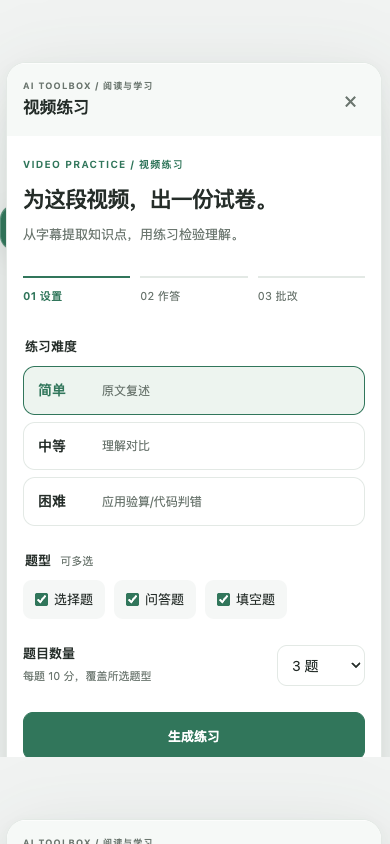
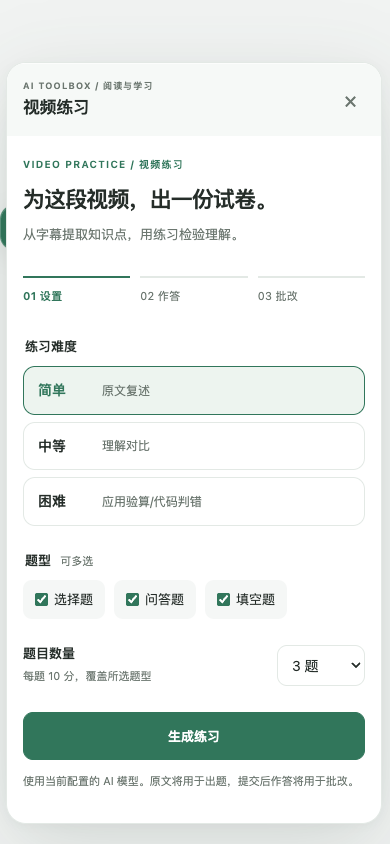
fix(content): 提取正文时排除功能菜单元素
- 将 .ds-function-menu 加入 OMIT 选择器，避免菜单文本混入正文
- 测试改用真实 YouTube 适配器并等待菜单布局稳定
- 更新文档链接并清理截图资源

Changed region(s): [[0.0615, 0.8934, 0.9231, 1.0]]

diff --git a/content-page.js b/content-page.js
@@ -1,7 +1,7 @@
 /* On ordinary pages, extract rendered article text only when the user asks. */
 (function () {
   'use strict';
-  const OMIT = 'script,style,noscript,template,svg,canvas,iframe,video,audio,nav,aside,footer,form,input,textarea,select,button,[contenteditable],[hidden],[aria-hidden="true"],[role="navigation"],[role="banner"],#ds-tool-bar,.ds-panel';
+  const OMIT = 'script,style,noscript,template,svg,canvas,iframe,video,audio,nav,aside,footer,form,input,textarea,select,button,[contenteditable],[hidden],[aria-hidden="true"],[role="navigation"],[role="banner"],#ds-tool-bar,.ds-function-menu,.ds-panel';
   function extract(node, limit = 240000) {
     const walker = document.createTreeWalker(node, NodeFilter.SHOW_TEXT);
     const visible = new WeakMap();

diff --git a/docs/网站.md b/docs/网站.md
@@ -3,3 +3,4 @@ https://www.bilibili.com/video/BV1ghtRzZEHu/?spm_id_from=333.788.videopod.episod
 https://www.bilibili.com/video/BV1Et411R78v/?spm_id_from=333.1387.top_right_bar_window_custom_collection.content.click&vd_source=c5c3cb22cb784d538051bfb8cea10a28
 https://zh.wikipedia.org/wiki/%E4%B8%89%E8%A7%92%E5%87%BD%E6%95%B0
 https://baike.baidu.com/item/%E6%B4%9B%E7%A5%9E%E8%B5%8B/5572
+https://www.youtube.com/watch?v=0oytxLznnL0
